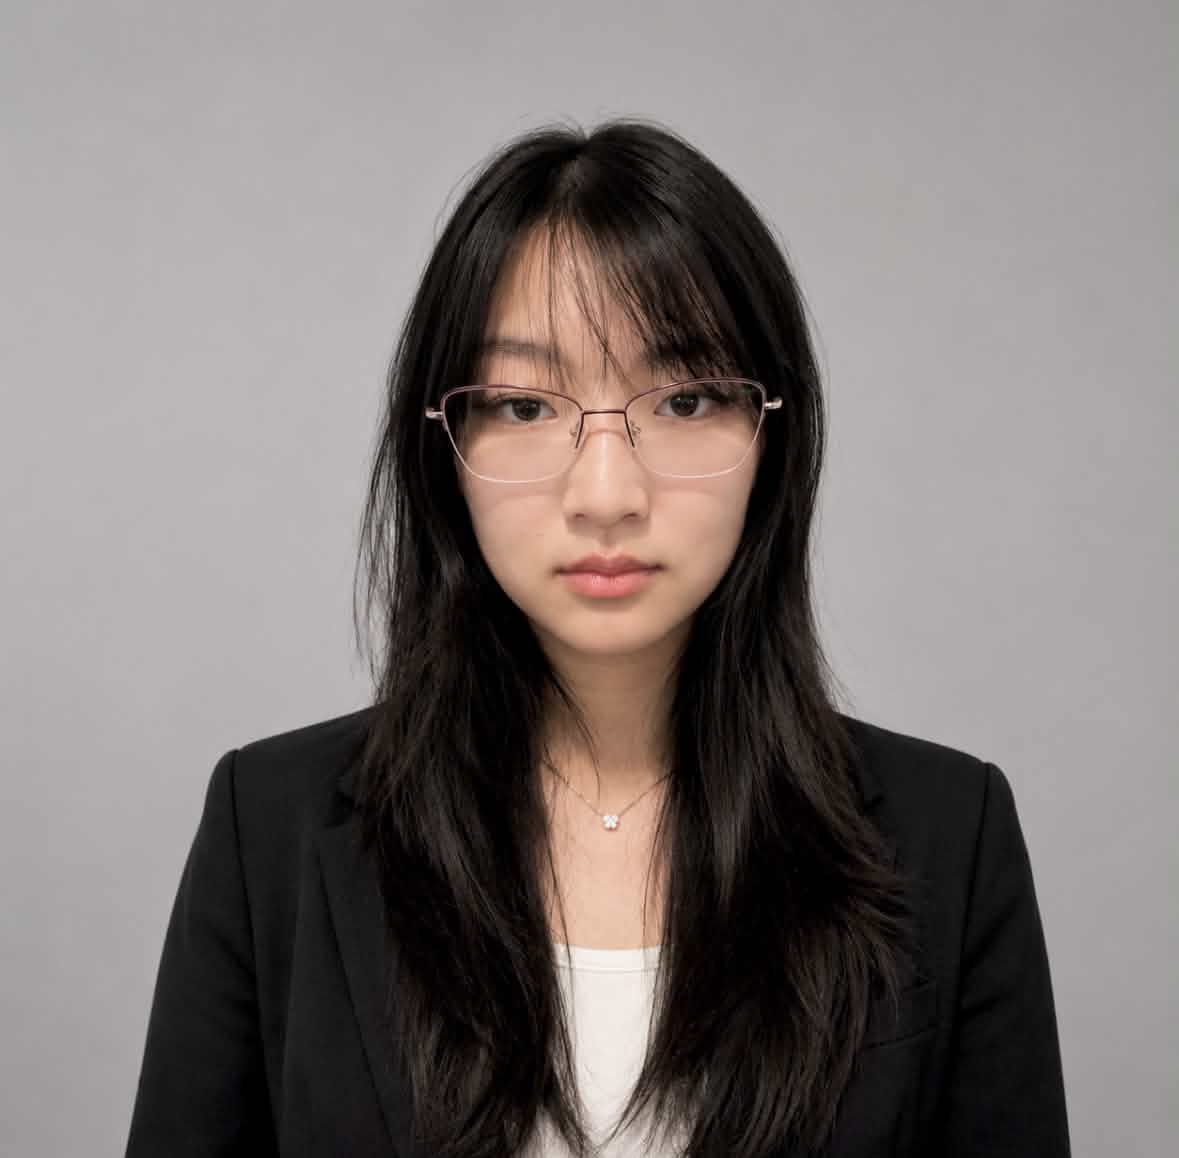
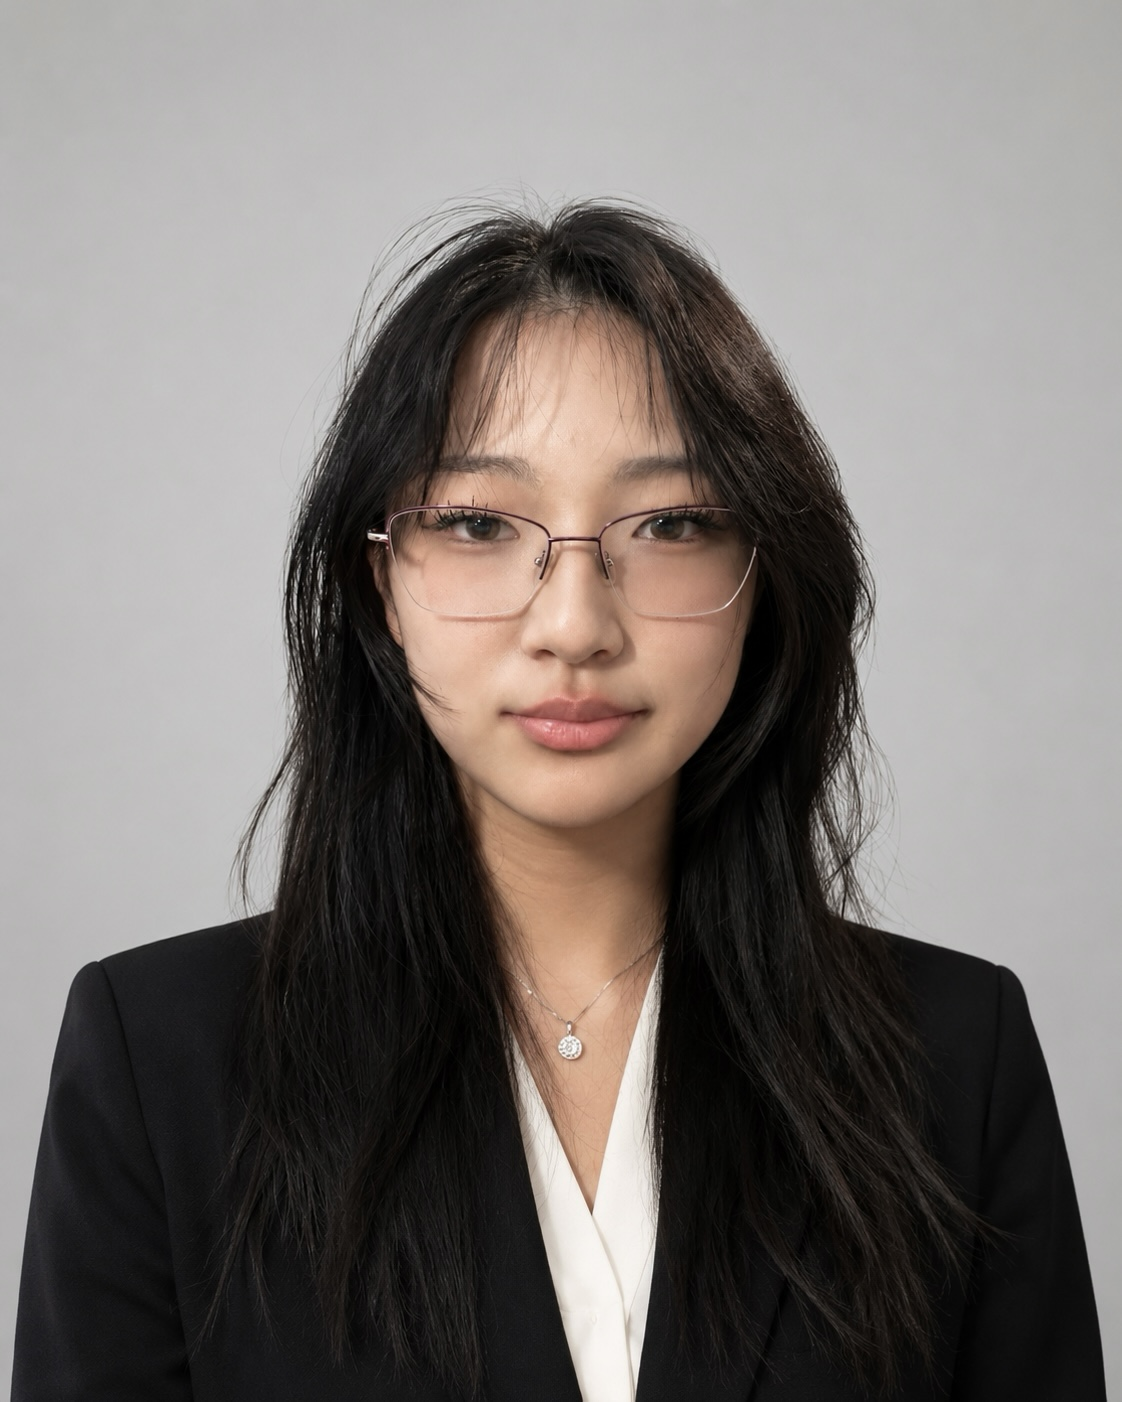
new

diff --git a/src/components/PaperGrainField.tsx b/src/components/PaperGrainField.tsx
@@ -1,0 +1,72 @@
+"use client";
+
+import { useEffect, useId, useRef } from "react";
+
+export function PaperGrainField() {
+  const filterId = useId();
+  const wrapRef = useRef<HTMLDivElement>(null);
+  const sheenRef = useRef<HTMLDivElement>(null);
+
+  useEffect(() => {
+    const wrap = wrapRef.current;
+    const sheen = sheenRef.current;
+    if (!wrap || !sheen) return;
+
+    if (window.matchMedia("(prefers-reduced-motion: reduce)").matches) return;
+
+    let targetX = 50;
+    let targetY = 50;
+    let currentX = 50;
+    let currentY = 50;
+    let raf = 0;
+
+    const handleMove = (e: MouseEvent) => {
+      const rect = wrap.getBoundingClientRect();
+      const withinX = e.clientX >= rect.left && e.clientX <= rect.right;
+      const withinY = e.clientY >= rect.top && e.clientY <= rect.bottom;
+      if (!withinX || !withinY) return;
+      targetX = ((e.clientX - rect.left) / rect.width) * 100;
+      targetY = ((e.clientY - rect.top) / rect.height) * 100;
+    };
+
+    const tick = () => {
+      currentX += (targetX - currentX) * 0.045;
+      currentY += (targetY - currentY) * 0.045;
+      sheen.style.setProperty("--mx", `${currentX}%`);
+      sheen.style.setProperty("--my", `${currentY}%`);
+      raf = requestAnimationFrame(tick);
+    };
+
+    window.addEventListener("mousemove", handleMove);
+    raf = requestAnimationFrame(tick);
+
+    return () => {
+      window.removeEventListener("mousemove", handleMove);
+      cancelAnimationFrame(raf);
+    };
+  }, []);
+
+  return (
+    <div ref={wrapRef} className="absolute inset-0 pointer-events-none overflow-hidden" aria-hidden="true">
+      <svg className="absolute w-0 h-0">
+        <filter id={filterId}>
+          <feTurbulence type="fractalNoise" baseFrequency="0.85" numOctaves="2" stitchTiles="stitch" />
+          <feColorMatrix type="matrix" values="0 0 0 0 0  0 0 0 0 0  0 0 0 0 0  0 0 0 0.5 0" />
+        </filter>
+      </svg>
+      <div
+        className="absolute inset-0"
+        style={{ filter: `url(#${filterId})`, opacity: 0.4, mixBlendMode: "multiply" }}
+      />
+      <div
+        ref={sheenRef}
+        className="absolute inset-0"
+        style={{
+          background:
+            "radial-gradient(circle 420px at var(--mx, 50%) var(--my, 50%), rgba(242,224,170,0.4), transparent 70%)",
+          mixBlendMode: "soft-light",
+        }}
+      />
+    </div>
+  );
+}

diff --git a/src/components/primitives/Tilt.tsx b/src/components/primitives/Tilt.tsx
@@ -16,8 +16,6 @@ export function Tilt({
   const springConfig = { stiffness: 220, damping: 22, mass: 0.4 };
   const rotateX = useSpring(useTransform(py, [0, 1], [8, -8]), springConfig);
   const rotateY = useSpring(useTransform(px, [0, 1], [-8, 8]), springConfig);
-  const glareX = useTransform(px, [0, 1], ["0%", "100%"]);
-  const glareY = useTransform(py, [0, 1], ["0%", "100%"]);
 
   const handleMove = (e: React.MouseEvent<HTMLDivElement>) => {
     const el = ref.current;
@@ -33,25 +31,10 @@ export function Tilt({
   };
 
   return (
-    <motion.div
-      ref={ref}
-      onMouseMove={handleMove}
-      onMouseLeave={handleLeave}
-      style={{ rotateX, rotateY, transformPerspective: 700 }}
-      className={`relative ${className}`}
-    >
-      {children}
-      <motion.div
-        aria-hidden
-        className="pointer-events-none absolute inset-0"
-        style={{
-          background: useTransform(
-            [glareX, glareY],
-            ([gx, gy]) =>
-              `radial-gradient(circle 140px at ${gx} ${gy}, rgba(242,183,5,0.16), transparent 70%)`
-          ),
-        }}
-      />
-    </motion.div>
+    <div ref={ref} onMouseMove={handleMove} onMouseLeave={handleLeave} className={`relative ${className}`}>
+      <motion.div style={{ rotateX, rotateY, transformPerspective: 700 }} className="relative">
+        {children}
+      </motion.div>
+    </div>
   );
 }

diff --git a/src/components/HeroField.tsx b/src/components/HeroField.tsx
@@ -87,7 +87,7 @@ export function HeroField() {
 
         const offset = Math.sqrt((d.x - d.homeX) ** 2 + (d.y - d.homeY) ** 2);
         const proximity = Math.max(0, 1 - dist / REPEL_RADIUS);
-        const opacity = 0.09 + proximity * 0.55 + Math.min(offset / 30, 1) * 0.15;
+        const opacity = 0.25 + proximity * 0.45 + Math.min(offset / 30, 1) * 0.12;
         const radius = 1 + proximity * 1.6;
 
         const brass = [201, 162, 39];
